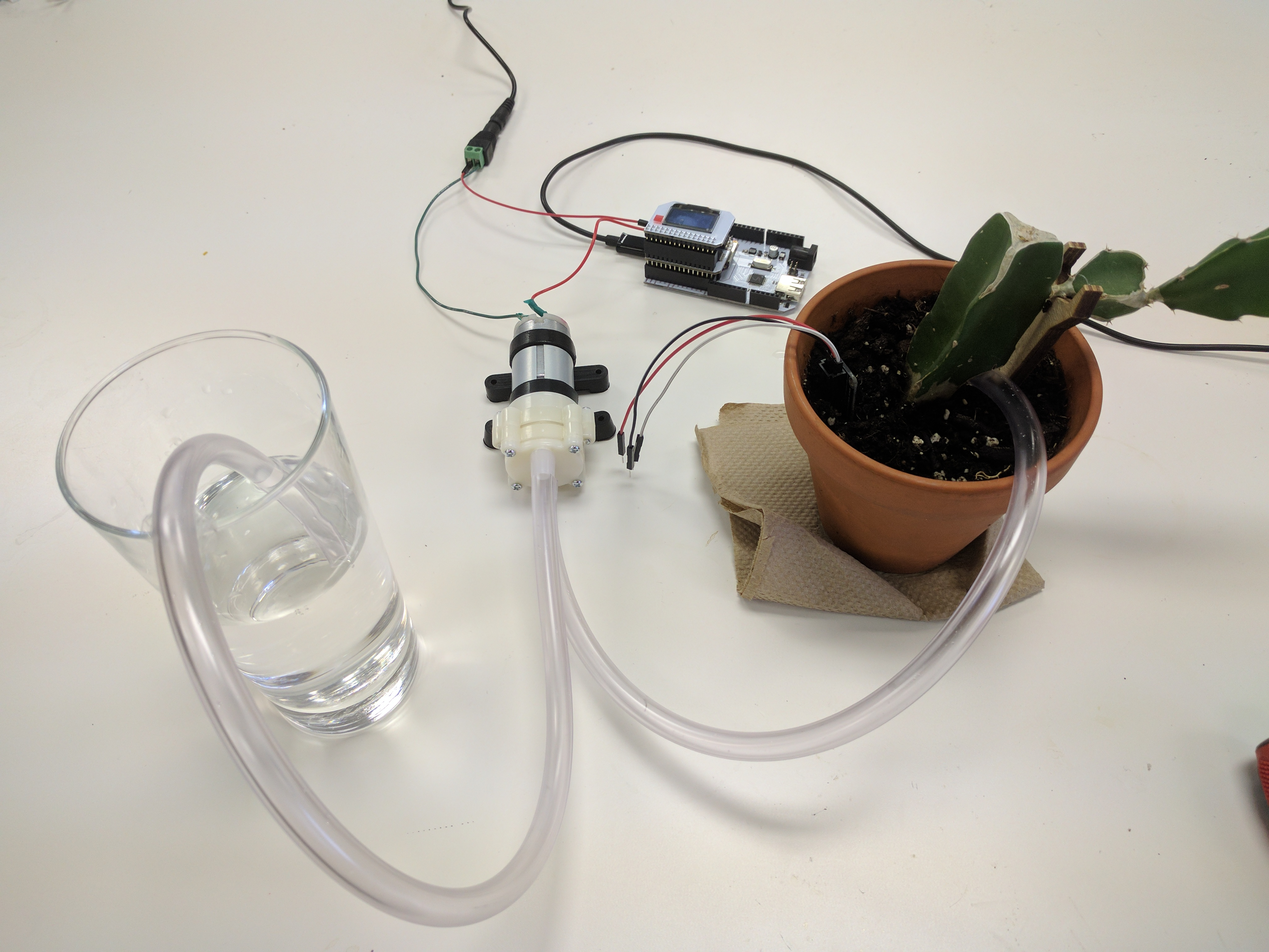
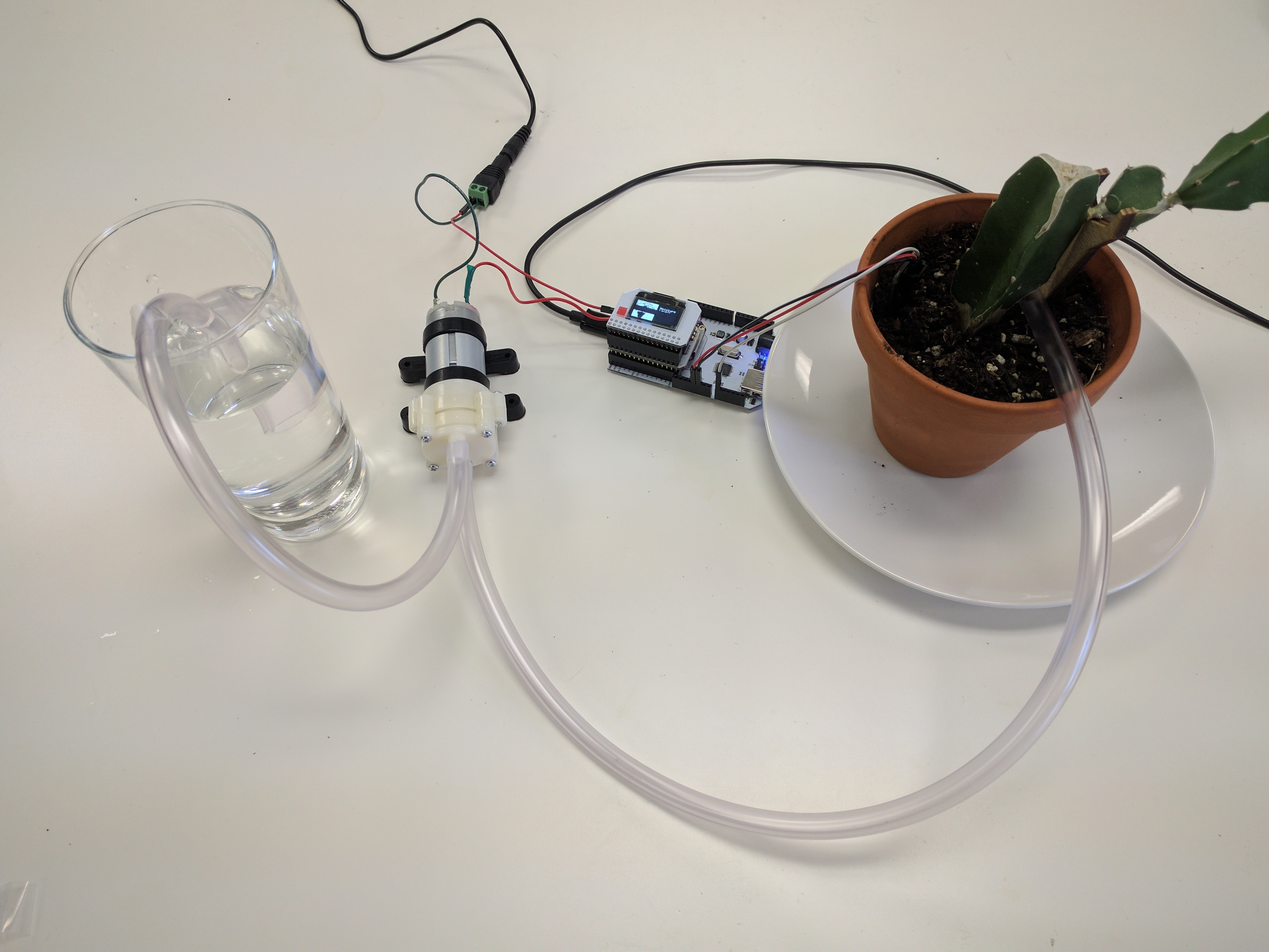
added the photos for smart plant

diff --git a/Omega2/Projects/iot/smart-plant-part4.md b/Omega2/Projects/iot/smart-plant-part4.md
@@ -2,7 +2,7 @@
 
 Now that our plant is smart enough to Tweet us when it needs water, let's see if we can make it even smarter and have it water itself! For this project, we'll add a water pump to our work in [Smart Plant Part 3](#smart-plant-p3) so we can automate the watering process.
 
-// TODO: this photo shows the sensor disconnected... retake it
+<!-- // DONE: this photo shows the sensor disconnected... retake it -->
 
 ![](./img/smart-plant-p4-complete.jpg)
 
@@ -39,6 +39,8 @@ And some new ingredients:
     * Make sure to match the tubing's **inner** diameter (ID) is slightly less than the pump's ports' **outer** diameter (OD). This is so the tubing will stretch and grip the ports, preventing any leaks!
     * [This mini water pump's](http://www.canadarobotix.com/pump/2033) ports have a 0.34 inch OD, and we found vinyl tubing with 0.25 inch ID provides a great seal when coupled together.
 * A plate or bowl to hold your plant and collect excess water
+* A piece of paper the size of your hand to test the pump's polarity
+* A glass or bowl of water you can use as a reservoir
 
 Tools:
 
@@ -53,7 +55,8 @@ If your pump does not come with wires attached, then you will need:
 <!-- TODO: find water pump from a US retailer -->
 <!-- TODO: add specific tubing -->
 
-// TODO: retake this photo with the soil moisture sensor included and the breadboard circuit taken apart
+<!-- // DONE: retake this photo with the soil moisture sensor included and the breadboard circuit taken apart -->
+<!-- The breadboard circuit was not supposed to be part of this step -->
 
 ![](./img/smart-plant-p4-ingredients.jpg)
 
@@ -110,7 +113,8 @@ Take two pieces of jumper wire, one red and one black, and strip about 1" from t
 
 If there are no markings, connect them to the leads whichever which way. If the order happens to be wrong, you can switch them later.
 
-// TODO: photo
+<!-- // DONE: photo -->
+![](./img/smart-plant-p4-prepare-pump-01.jpg)
 
 ##### Connecting to the Barrel Jack Connector
 
@@ -118,13 +122,15 @@ With the 12V power supply **not** plugged in yet, connect the other end of the r
 
 >The screw terminal on the barrel jack adapter will rise and sink depending on the clamp position. When the screw is roughly flush with the top, it is open. To attach a wire, insert it into the terminal and turn the screw clockwise until it sinks to about halfway, or until it becomes difficult to continue turning.
 
-// TODO: photo
+<!-- // DONE: photo -->
+![](./img/smart-plant-p4-prepare-pump-02.jpg)
 
 ##### Locating the Inlet and Outlet
 
 Examine your pump's instruction manual (if there is one) or the ports to see if there are any markings or labels for "IN" and "OUT". Our pump had them in raised letters on the plastic housing:
 
-// TODO: photo
+<!-- // DONE: photo -->
+![](./img/smart-plant-p4-prepare-pump-03.jpg)
 
 ##### Determining Polarity
 
@@ -156,7 +162,7 @@ We'll wire up the Water Pump with the Relay Expansion before connecting the Rela
 
 >To set up the terminals on the Relay Expansion, turn the screw on the terminal counterclockwise until the metal clamp inside is sitting a bit less than halfway in the bottom of the housing, not too much or the screw might pop out.
 
-// TODO: photo: retake these 3 photos so that all of the components are in the same place for each photo
+<!-- // DONE: photo: retake these 3 photos so that all of the components are in the same place for each photo -->
 
 1. Run a jumper wire from the **negative terminal** of the DC Barrel Jack Adapter to the **negative terminal** of the Water Pump
 
@@ -197,7 +203,7 @@ relay-exp 0 on
 
 Your pump should now come to life!
 
-To turn off the pump, run the following:
+Turn off the pump for now by running the following:
 
 ```
 relay-exp 0 off
@@ -206,7 +212,7 @@ relay-exp 0 off
 > For more info on the `relay-exp` command, see our [Relay Expansion documentation](https://docs.onion.io/omega2-docs/using-relay-expansion.html).
 
 
-#### 8. Water Pump Setup
+#### 8. Water Pump and Sensor Setup
 
 Before we connect the tubing, disconnect the motor from the circuit. This is so you can more easily work with the pump and avoid spilling water on your components.
 
@@ -223,13 +229,19 @@ Repeat this process for another piece of tubing that will go from the pump outle
 
 ![](./img/smart-plant-p4-tubing-02.jpg)
 
-Now connect the motor back to the circuit, and plug in the power supplies for the Omega and pump:
+Now connect the motor back to the circuit. Then reconnect the moisture sensor:
 
-<!-- // TODO: this photo shows the sensor disconnected... retake it -->
+1. Connect the Arduino Dock's **5V pin** to the sensor's `Vcc` pin.
+1. Connect the Arduino Dock's `GND` pin to the sensor's `GND` pin.
+1. Connect the Arduino Dock's `A0` pin to the sensor's `SIG` pin.
+
+and plug in the power supplies for the Omega and pump:
+
+<!-- // DONE: this photo shows the sensor disconnected... retake it -->
 
 ![](./img/smart-plant-p4-complete.jpg)
 
-
+The Omega should now be booting.
 
 <!-- // DONE: since we changed the first part to setup an init.d script, we need to update this step
 // The new step should entail:

diff --git a/Omega2/Projects/iot/smart-plant-part5.md b/Omega2/Projects/iot/smart-plant-part5.md
@@ -2,7 +2,8 @@
 
 We've built out some really cool features on our smart plant in the previous parts. Now to top it all off, let's upgrade the power circuitry so we can run the entire project on a single 12V power supply!
 
-// TODO: include a photo of the final result
+<!-- // DONE: include a photo of the final result -->
+![](./img/smart-plant-p5-completed.jpg)
 
 ### Overview
 
@@ -16,7 +17,7 @@ When you were building the smart plant, you had to power the pump and Arduino se
 
 We'll need all of the same materials as in the previous part:
 
-// TODO: add ingredients from smart plant p4 once all of those TODOs are done
+// TODO: add ingredients from smart plant p4 once all of those are done
 
 1. MC33269T 5V Linear Voltage Regulator
 1. A Breadboard
@@ -49,17 +50,19 @@ This project builds on the previous parts of the Smart Plant project. If you hav
 
 #### 1. Prep
 
-Before you start, take apart the wiring we did in the [previous part of the project](#smart-plant-p4) and unplug your Arduino Dock. Now you should have:
+Before you start, take apart the wiring and tubing we did in the [previous part of the project](#smart-plant-p4) and unplug your Arduino Dock. Now you should have:
 
-// TODO: a photo of ALL of the components on a desk: Arduino Dock w/ omega and moisture sensor plugged in, OLED Exp, Relay Exp, dc barrel jack adapter, voltage regulator, breadboard, water pump, bunch of jumper wires
+<!-- // DONE: a photo of ALL of the components on a desk: Arduino Dock w/ omega and moisture sensor plugged in, OLED Exp, Relay Exp, dc barrel jack adapter, voltage regulator, breadboard, water pump, bunch of jumper wires -->
+
+![](./img/smart-plant-p5-ingredients.jpg)
 
 **IMPORTANT:** Make sure your Power Supply is no longer connected to the DC Barrel Jack Adapter!
 
 #### 1. Wiring the Circuit
 
-// TODO: embellish the text of the steps
+<!-- // DONE: embellish the text of the steps -->
 
-// TODO: add photos for logical places in the steps (note: the steps don't have to be in a list, can just be broken up with photos)
+<!-- // DONE: add photos for logical places in the steps (note: the steps don't have to be in a list, can just be broken up with photos) -->
 
 ![](./img/smart-plant-p5-0-circuit-planning-1-regulator.png)
 
@@ -71,6 +74,7 @@ We'll wire up the circuit in a few sub-steps:
 1. Regulator output
 1. Water pump
 1. Arduino Dock
+1. Moisture sensor
 
 ##### Regulator Input
 
@@ -114,12 +118,30 @@ Then plug in the OLED Expansion.
 
 ![](./img/smart-plant-p5-wiring-05.jpg)
 
+##### Moisture Sensor
+
+Using the wires from the moisture sensor:
+
+1. Connect the **5V `+` rail** to the sensor's `Vcc` pin.
+1. Connect the Arduino Dock's other `GND` pin to the sensor's `GND` pin.
+1. Connect the Arduino Dock's `A0` pin to the sensor's `SIG` pin.
+
+<!-- // DONE: photo -->
+![](./img/smart-plant-p5-wiring-06.jpg)
+
 #### 1. Provide Power
 
-Now we provide power by connecting the 12V power supply to the DC Barrel Jack Adapter. Your Omega should now be booting.
+Now reassemble your pump tubing, reservoir, sensor, and plant:
+
+<!-- // DONE: photo -->
+![](./img/smart-plant-p5-assembled.jpg)
+
+
+Then provide power by connecting the 12V power supply to the DC Barrel Jack Adapter. Your Omega should now be booting.
 
 **Congratulations, you've made it!** Revel in the fact that you've created a regulator circuit that can power your Omega as well as the 12V pump!
 
-// TODO: photo
+<!-- // DONE: photo, finally completed -->
+![](./img/smart-plant-p5-completed.jpg)
 
 Show off your amazing smart-plant setup and Dashboards on our [Community Forum](https://community.onion.io/category/1/projects)!
